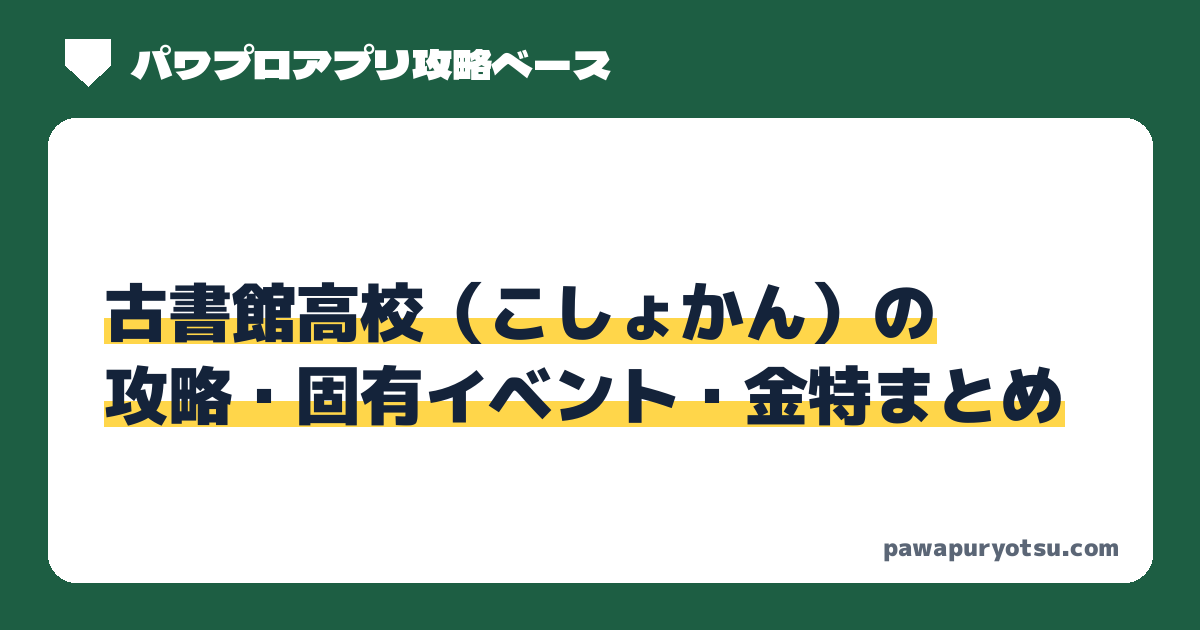
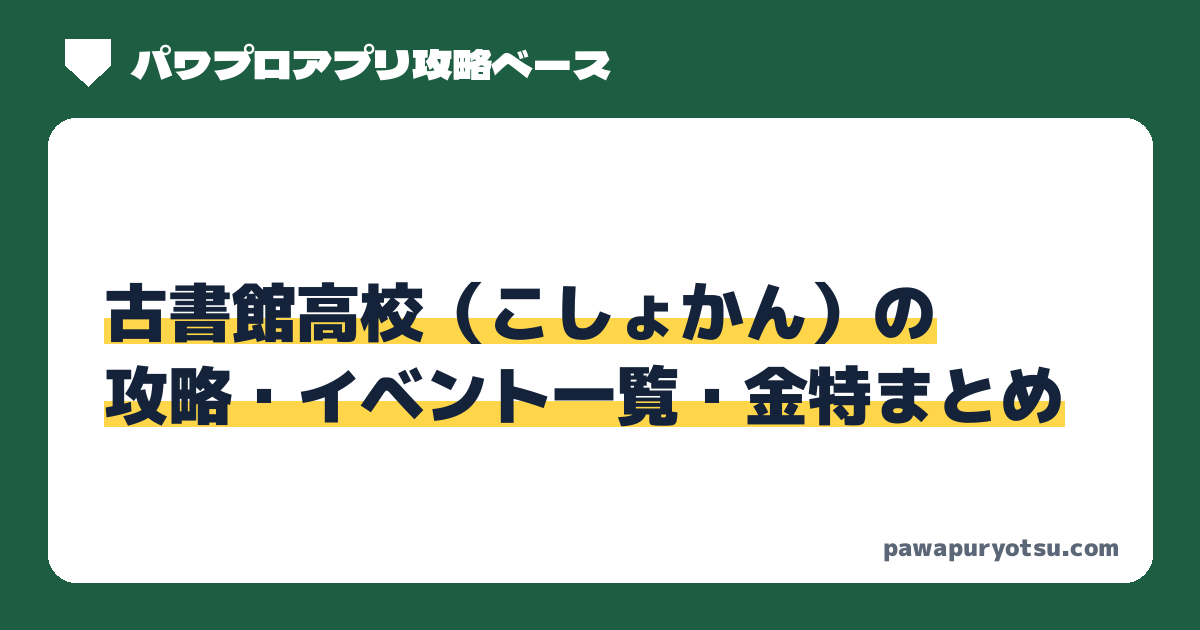
古書館高校のトップをロマン開花學園と同じ形に（所属キャラの恩恵・固定イベント・ランダムイベント・金特取得条件の欄、野手シナリオ）
Claude-Session: https://claude.ai/code/session_019YJeSxNx1LnP2SSifh1sgz

Changed region(s): [[0.2467, 0.573, 0.5858, 0.6937]]

diff --git a/docs/success/koshokan/index.html b/docs/success/koshokan/index.html
@@ -4,13 +4,13 @@
 <meta charset="utf-8">
 <meta name="viewport" content="width=device-width,initial-scale=1,viewport-fit=cover">
 <meta name="color-scheme" content="light">
-<title>古書館高校（こしょかん）の攻略・固有イベント・金特まとめ｜パワプロアプリ攻略ベース</title>
-<meta name="description" content="パワプロアプリのサクセス新シナリオ「古書館高校（こしょかん）」の攻略ページです。入手できる金特・固有イベントと、ギミック解説・立ち回り・おすすめデッキ・イベキャラランキングへの入口をまとめます。">
+<title>古書館高校（こしょかん）の攻略・イベント一覧・金特まとめ｜パワプロアプリ攻略ベース</title>
+<meta name="description" content="パワプロアプリのサクセス新シナリオ「古書館高校（こしょかん）」の攻略ページです。取得できる金特・所持経験点上限・シナリオ所属キャラ、固定イベントとランダムイベントの一覧（選択肢と効果）をまとめます。ギミック解説・立ち回り・おすすめデッキ・イベキャラランキングへの入口もあります。">
 <link rel="canonical" href="https://pawapuryotsu.com/success/koshokan/">
 <meta property="og:type" content="website">
 <meta property="og:site_name" content="パワプロアプリ攻略ベース">
-<meta property="og:title" content="古書館高校（こしょかん）の攻略・固有イベント・金特まとめ｜パワプロアプリ攻略ベース">
-<meta property="og:description" content="パワプロアプリのサクセス新シナリオ「古書館高校（こしょかん）」の攻略ページです。入手できる金特・固有イベントと、ギミック解説・立ち回り・おすすめデッキ・イベキャラランキングへの入口をまとめます。">
+<meta property="og:title" content="古書館高校（こしょかん）の攻略・イベント一覧・金特まとめ｜パワプロアプリ攻略ベース">
+<meta property="og:description" content="パワプロアプリのサクセス新シナリオ「古書館高校（こしょかん）」の攻略ページです。取得できる金特・所持経験点上限・シナリオ所属キャラ、固定イベントとランダムイベントの一覧（選択肢と効果）をまとめます。ギミック解説・立ち回り・おすすめデッキ・イベキャラランキングへの入口もあります。">
 <meta property="og:url" content="https://pawapuryotsu.com/success/koshokan/">
 <meta property="og:image" content="https://pawapuryotsu.com/img/og/success_koshokan.png">
 <meta property="og:image:width" content="1200">
@@ -86,7 +86,10 @@
   <b>もくじ</b>
   <ol>
     <li><a href="#about">シナリオの概要（入手できる金特）</a></li>
-    <li><a href="#event">固有イベント</a></li>
+    <li><a href="#merit">シナリオ所属キャラをデッキに入れた時の恩恵</a></li>
+    <li><a href="#event">固定イベント</a></li>
+    <li><a href="#random">ランダムイベント</a></li>
+    <li><a href="#gold">シナリオ金特取得条件</a></li>
   </ol>
   </nav>
 
@@ -96,16 +99,36 @@
   <tbody>
     <tr><th>実装日</th><td><span class="sa-wait">調査中</span></td></tr>
     <tr><th>空き<span class="cp-nw">イベント数</span></th><td><span class="sa-ev"><span class="cp-nw sa-mae">前：<b><span class="sa-wait">調査中</span></b></span><span class="cp-nw sa-ato">後：<b><span class="sa-wait">調査中</span></b></span></span></td></tr>
-    <tr><th rowspan="2">取得可能な<span class="cp-nw">金特</span></th><td><span class="sa-pos sa-pos-p">投手</span><span class="sa-wait">調査中</span></td></tr>
-    <tr><td><span class="sa-pos">野手</span><span class="sa-wait">調査中</span></td></tr>
+    <tr><th rowspan="2">取得可能な<span class="cp-nw">金特</span></th><td><span class="sa-pos">野手</span><span class="sa-wait">調査中</span></td></tr>
+    <tr><td><span class="sa-pos sa-pos-p">投手</span><span class="sa-wait">調査中</span></td></tr>
     <tr><th>所持経験点<span class="cp-nw">上限</span></th><td><span class="sa-wait">調査中</span></td></tr>
     <tr><th>シナリオ<span class="cp-nw">所属キャラ</span></th><td><span class="sa-wait">調査中</span></td></tr>
   </tbody>
   </table>
   <!-- SCABOUT:END -->
 
-  <h2 id="event">固有イベント</h2>
-  <p class="muted">（原稿待ち）</p>
+  <h2 id="merit">シナリオ所属キャラを<span class="cp-nw">デッキに入れた時の恩恵</span></h2>
+  <!-- SCMERIT:START -->
+  <p class="muted">準備中です。</p>
+  <!-- SCMERIT:END -->
+
+  <h2 id="event">固定イベント</h2>
+  <!-- SCEVENT:START -->
+  <p class="muted">準備中です。</p>
+  <!-- SCEVENT:END -->
+
+  <h2 id="random">ランダムイベント</h2>
+  <!-- SCRANDOM:START -->
+  <h3 class="se-h se-h-mae">前イベント</h3>
+  <p class="muted">準備中です。</p>
+  <h3 class="se-h se-h-ato">後イベント</h3>
+  <p class="muted">準備中です。</p>
+  <!-- SCRANDOM:END -->
+
+  <h2 id="gold">シナリオ金特取得条件</h2>
+  <!-- SCGOLD:START -->
+  <p class="muted">準備中です。</p>
+  <!-- SCGOLD:END -->
 </div>
 
 </div></main>

diff --git a/src/pages/success-koshokan.html b/src/pages/success-koshokan.html
@@ -1,6 +1,6 @@
 <!--
-title: 古書館高校（こしょかん）の攻略・固有イベント・金特まとめ｜パワプロアプリ攻略ベース
-description: パワプロアプリのサクセス新シナリオ「古書館高校（こしょかん）」の攻略ページです。入手できる金特・固有イベントと、ギミック解説・立ち回り・おすすめデッキ・イベキャラランキングへの入口をまとめます。
+title: 古書館高校（こしょかん）の攻略・イベント一覧・金特まとめ｜パワプロアプリ攻略ベース
+description: パワプロアプリのサクセス新シナリオ「古書館高校（こしょかん）」の攻略ページです。取得できる金特・所持経験点上限・シナリオ所属キャラ、固定イベントとランダムイベントの一覧（選択肢と効果）をまとめます。ギミック解説・立ち回り・おすすめデッキ・イベキャラランキングへの入口もあります。
 path: success/koshokan/
 nav: koshokan
 crumb: 古書館高校
@@ -36,7 +36,10 @@ noindex: yes
   <b>もくじ</b>
   <ol>
     <li><a href="#about">シナリオの概要（入手できる金特）</a></li>
-    <li><a href="#event">固有イベント</a></li>
+    <li><a href="#merit">シナリオ所属キャラをデッキに入れた時の恩恵</a></li>
+    <li><a href="#event">固定イベント</a></li>
+    <li><a href="#random">ランダムイベント</a></li>
+    <li><a href="#gold">シナリオ金特取得条件</a></li>
   </ol>
   </nav>
 
@@ -46,14 +49,34 @@ noindex: yes
   <tbody>
     <tr><th>実装日</th><td><span class="sa-wait">調査中</span></td></tr>
     <tr><th>空き<span class="cp-nw">イベント数</span></th><td><span class="sa-ev"><span class="cp-nw sa-mae">前：<b><span class="sa-wait">調査中</span></b></span><span class="cp-nw sa-ato">後：<b><span class="sa-wait">調査中</span></b></span></span></td></tr>
-    <tr><th rowspan="2">取得可能な<span class="cp-nw">金特</span></th><td><span class="sa-pos sa-pos-p">投手</span><span class="sa-wait">調査中</span></td></tr>
-    <tr><td><span class="sa-pos">野手</span><span class="sa-wait">調査中</span></td></tr>
+    <tr><th rowspan="2">取得可能な<span class="cp-nw">金特</span></th><td><span class="sa-pos">野手</span><span class="sa-wait">調査中</span></td></tr>
+    <tr><td><span class="sa-pos sa-pos-p">投手</span><span class="sa-wait">調査中</span></td></tr>
     <tr><th>所持経験点<span class="cp-nw">上限</span></th><td><span class="sa-wait">調査中</span></td></tr>
     <tr><th>シナリオ<span class="cp-nw">所属キャラ</span></th><td><span class="sa-wait">調査中</span></td></tr>
   </tbody>
   </table>
   <!-- SCABOUT:END -->
 
-  <h2 id="event">固有イベント</h2>
-  <p class="muted">（原稿待ち）</p>
+  <h2 id="merit">シナリオ所属キャラを<span class="cp-nw">デッキに入れた時の恩恵</span></h2>
+  <!-- SCMERIT:START -->
+  <p class="muted">準備中です。</p>
+  <!-- SCMERIT:END -->
+
+  <h2 id="event">固定イベント</h2>
+  <!-- SCEVENT:START -->
+  <p class="muted">準備中です。</p>
+  <!-- SCEVENT:END -->
+
+  <h2 id="random">ランダムイベント</h2>
+  <!-- SCRANDOM:START -->
+  <h3 class="se-h se-h-mae">前イベント</h3>
+  <p class="muted">準備中です。</p>
+  <h3 class="se-h se-h-ato">後イベント</h3>
+  <p class="muted">準備中です。</p>
+  <!-- SCRANDOM:END -->
+
+  <h2 id="gold">シナリオ金特取得条件</h2>
+  <!-- SCGOLD:START -->
+  <p class="muted">準備中です。</p>
+  <!-- SCGOLD:END -->
 </div>

diff --git a/tools/success_scenario_top.py b/tools/success_scenario_top.py
@@ -149,6 +149,8 @@ def event_tables():
     V = C.get("固有イベント")
     if V is None:
         return None
+    if not V.get("セクション"):
+        return '  <p class="muted">準備中です。</p>'
     WS = V.get("週", {})
     out = []
     for sec in V["セクション"]:
@@ -182,7 +184,7 @@ def _colored(evs):
 def empty_counts():
     """空きイベント数（前・後）。固有イベントの表で、色の付いていないセル（イベント無し、または名前を()で囲んだ空き扱いのイベント）を前・後ごとに数える。「数えない週」は除く"""
     V = C.get("固有イベント") or {}
-    if not V.get("空きイベント数を数える"):
+    if not V.get("空きイベント数を数える") or not V.get("セクション"):
         return None
     WS, skip = V.get("週", {}), V.get("数えない週", {})
     n = {"前": 0, "後": 0}
@@ -249,6 +251,8 @@ def gold_table():
     V = C.get("金特取得条件")
     if V is None:
         return None
+    if not V.get("行"):
+        return '  <p class="muted">準備中です。</p>'
     out = ['  <table class="sg-t">', '  <thead><tr><th>入手条件</th><th>入手金特</th></tr></thead>', "  <tbody>"]
     for r in V.get("行", []):
         g = "".join(f'<span class="sg-g"><span class="sa-pos{" sa-pos-p" if k == "投手" else ""}">{k}</span>{e(r[k])}</span>'
@@ -265,6 +269,8 @@ def merit_html():
     V = C.get("シナリオキャラの恩恵")
     if V is None:
         return None
+    if not (V.get("メインデッキ") or V.get("サポートデッキ")):
+        return '  <p class="muted">準備中です。</p>'
     out = []
     for k in ("メインデッキ", "サポートデッキ"):
         if V.get(k):
